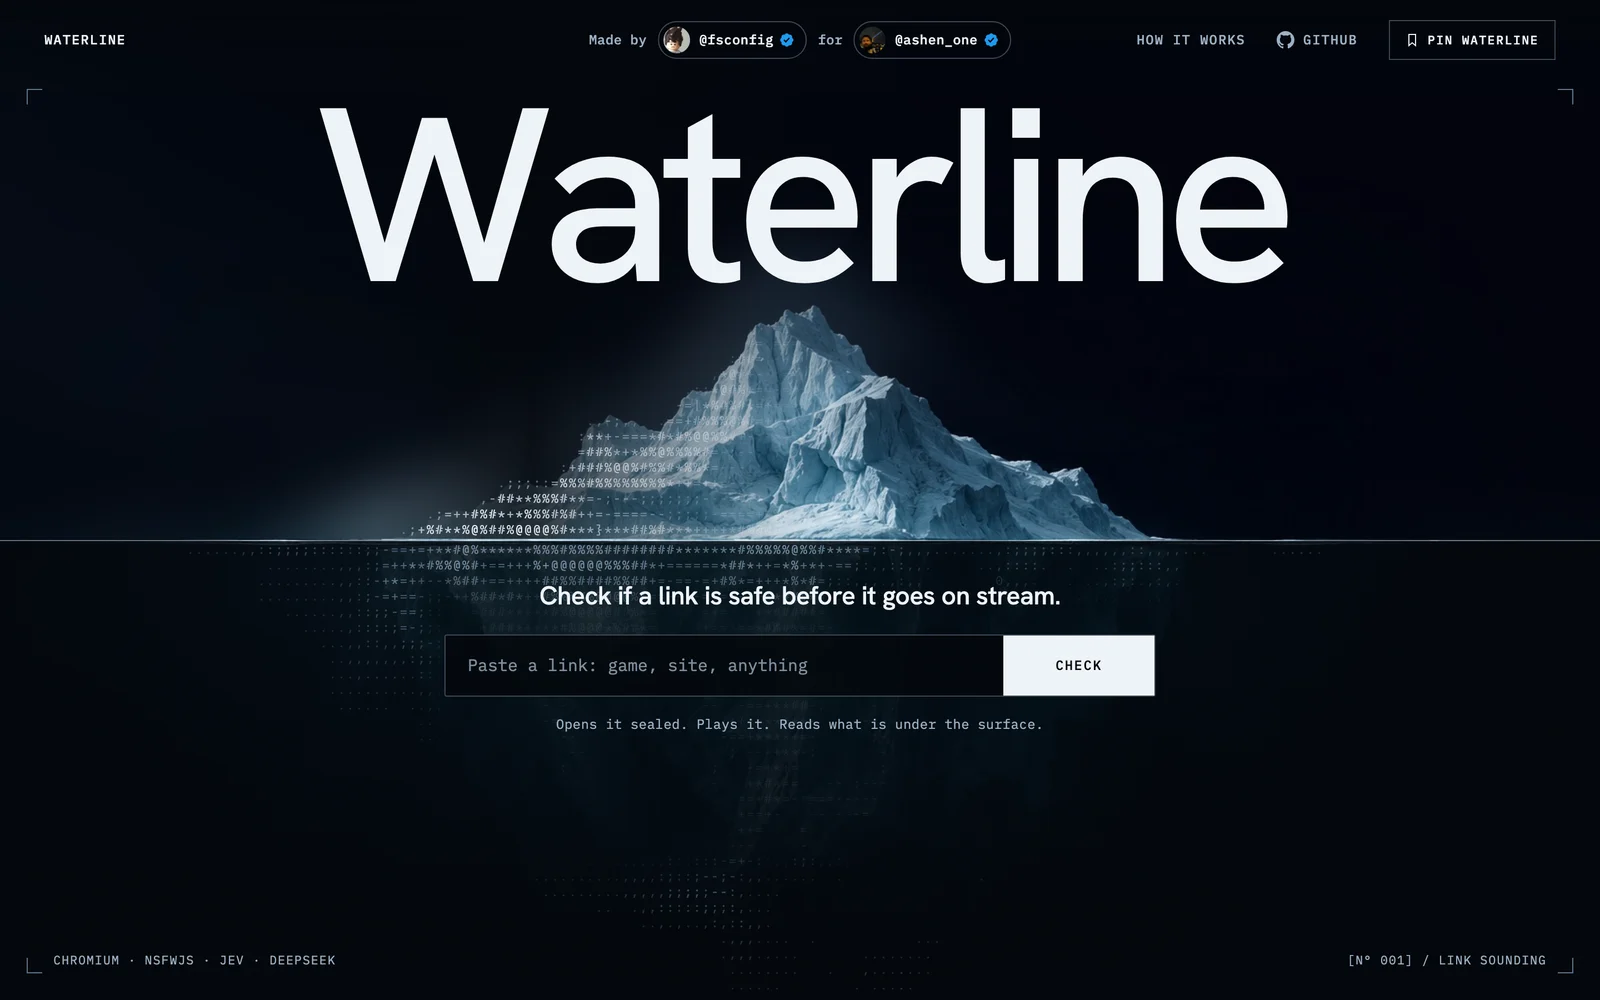
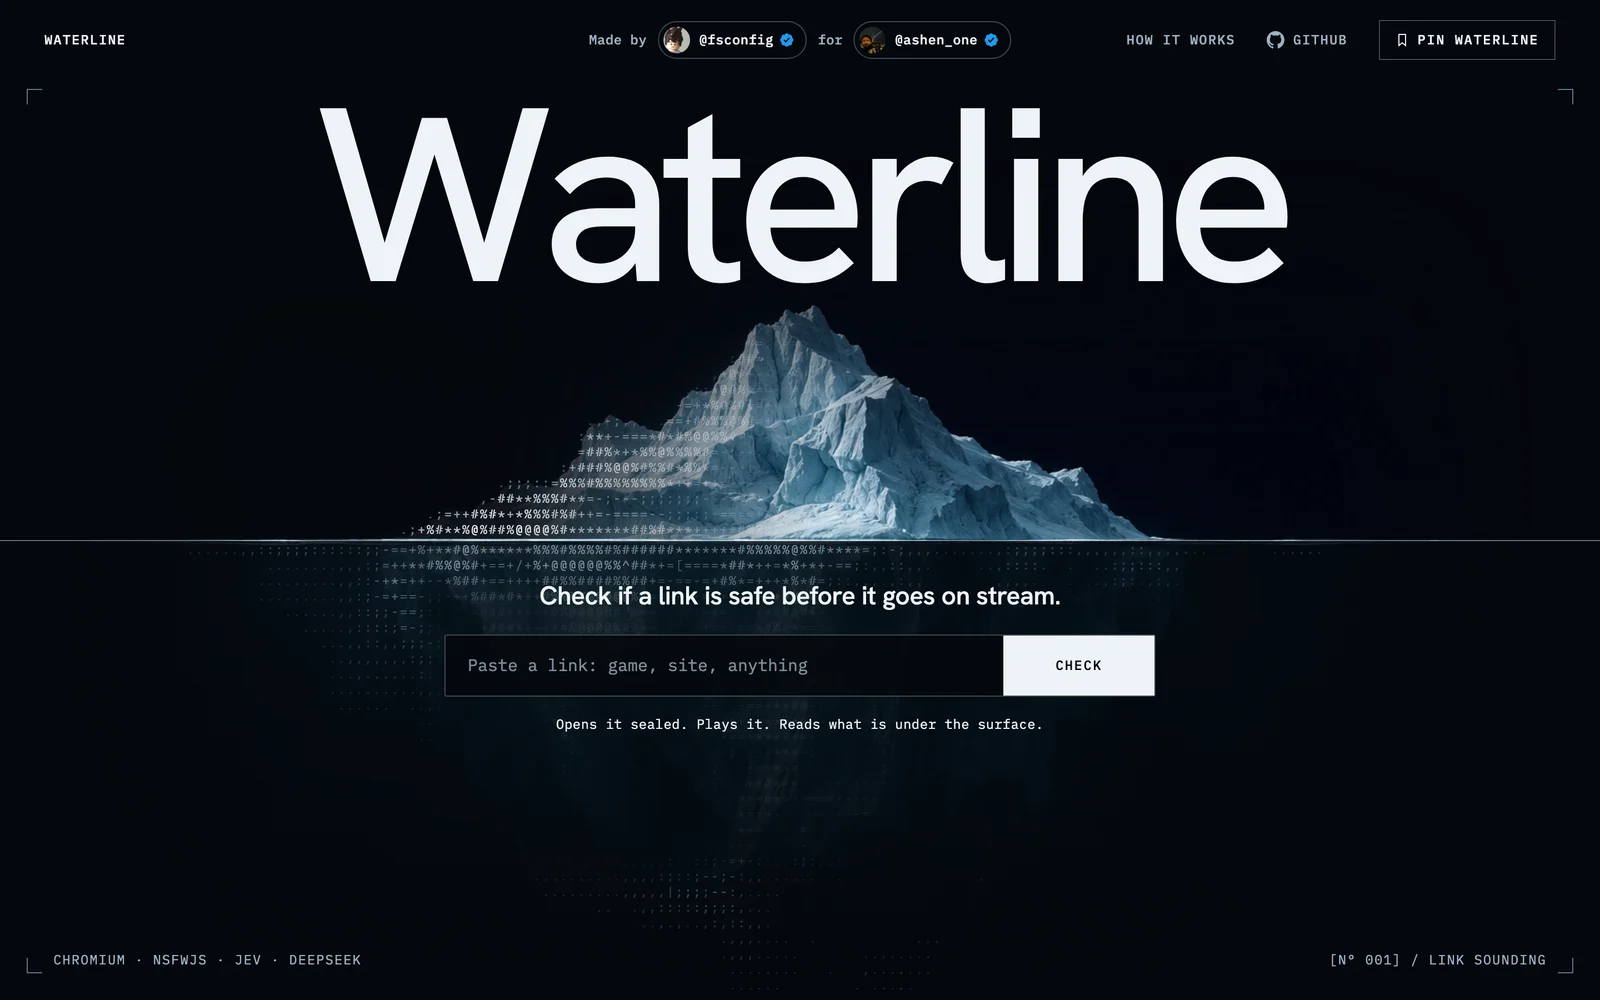
Fade the photo into the ground, credit chips with verified badges, tidy the top bar

diff --git a/public/style.css b/public/style.css
@@ -50,7 +50,7 @@ ol, ul { list-style: none; }
 @keyframes fade { from { opacity: 0; transform: translateY(-6px); } to { opacity: 1; transform: none; } }
 .pin-wrap { position: relative; }
 .pin { display: inline-flex; gap: 8px; align-items: center; height: 36px; padding: 0 14px; background: transparent; border: 1px solid var(--hair2); color: var(--ice);
-  font: 500 11px/1 var(--mono); letter-spacing: .1em; text-transform: uppercase; cursor: pointer; transition: border-color .2s, background .2s; }
+  font: 500 12px/1 var(--mono); letter-spacing: .1em; text-transform: uppercase; cursor: pointer; transition: border-color .2s, background .2s; }
 .pin:hover { border-color: var(--ice); background: rgba(238, 243, 247, .06); }
 .pin.done { border-color: var(--safe); color: var(--safe); }
 .pin-tip { position: absolute; right: 0; top: calc(100% + 10px); width: max-content; max-width: 280px; padding: 12px 14px; background: #0a111a; border: 1px solid var(--hair2);
@@ -72,7 +72,7 @@ ol, ul { list-style: none; }
 .crop { position: absolute; z-index: 5; width: 14px; height: 14px; border: 0 solid var(--steel); pointer-events: none; }
 .crop.tl { top: 80px; left: 24px; border-width: 1px 0 0 1px; } .crop.tr { top: 80px; right: 24px; border-width: 1px 1px 0 0; }
 .crop.bl { bottom: 24px; left: 24px; border-width: 0 0 1px 1px; } .crop.br { bottom: 24px; right: 24px; border-width: 0 1px 1px 0; }
-.foot { position: absolute; z-index: 5; bottom: 30px; font: 400 11px/1 var(--mono); letter-spacing: .08em; text-transform: uppercase; color: var(--frost); transition: opacity .4s; }
+.foot { position: absolute; z-index: 5; bottom: 30px; font: 400 12px/1 var(--mono); letter-spacing: .08em; text-transform: uppercase; color: var(--frost); transition: opacity .4s; }
 .foot.fl { left: 48px; } .foot.fr { right: 48px; }
 
 /* Wire: the real hosts the page contacts, running off the right edge */
@@ -110,13 +110,13 @@ input::placeholder { color: var(--frost); opacity: .8; }
 #go:hover { background: #fff; }
 #go:disabled { cursor: progress; background: rgba(191, 227, 255, .08); color: var(--sounding); border-left: 1px solid var(--hair2); }
 .log { margin-top: 16px; height: 54px; overflow: hidden; display: flex; flex-direction: column; justify-content: flex-end; font: 400 12px/18px var(--mono); letter-spacing: .02em; }
-.log li { display: flex; gap: 12px; color: var(--steel); white-space: nowrap; overflow: hidden; text-overflow: ellipsis; animation: logIn .35s var(--ease); transition: color .4s; }
-.log li:last-child { color: var(--ice); }
-.log li:nth-last-child(2) { color: var(--frost); }
-.log li i { font-style: normal; color: var(--steel); flex: none; }
-.log li.hint { justify-content: center; color: var(--frost); }
+.log > div { display: flex; gap: 12px; color: var(--steel); white-space: nowrap; overflow: hidden; text-overflow: ellipsis; animation: logIn .35s var(--ease); transition: color .4s; }
+.log > div:last-child { color: var(--ice); }
+.log > div:nth-last-child(2) { color: var(--frost); }
+.log > div i { font-style: normal; color: var(--steel); flex: none; }
+.log > .hint { justify-content: center; color: var(--frost); }
 .log:has(> .hint:only-child), .log:has(> .err:only-child) { justify-content: flex-start; }
-.log li.err { color: var(--caution); justify-content: center; }
+.log > .err { color: var(--caution); justify-content: center; }
 @keyframes logIn { from { opacity: 0; transform: translateY(8px); } to { opacity: 1; transform: none; } }
 .film { display: grid; grid-template-columns: repeat(6, 1fr); gap: 8px; margin-top: 16px; opacity: 0; transform: translateY(6px); transition: opacity .5s var(--ease), transform .5s var(--ease); }
 .hero[data-state="scanning"] .film { opacity: 1; transform: none; }
@@ -206,7 +206,10 @@ input::placeholder { color: var(--frost); opacity: .8; }
   .gh span { display: none; } .bar nav { gap: 14px; }
   .credit { top: 84px; gap: 6px; font-size: 11px; }
   .credit a { padding: 3px 8px 3px 3px; gap: 6px; } .credit img { width: 20px; height: 20px; } .credit .vf { width: 12px; height: 12px; }
-  .pin { height: 32px; padding: 0 10px; } .pin span { display: none; }
+  .pin { height: 44px; width: 44px; padding: 0; justify-content: center; } .pin span { display: none; }
+  .gh { min-width: 44px; min-height: 44px; justify-content: center; }
+  .credit a { position: relative; } .credit a::after { content: ""; position: absolute; inset: -9px -2px; }
+  .logo { min-height: 44px; }
   .crop, .foot.fr { display: none; }
   .foot.fl { left: 16px; right: 16px; bottom: 18px; text-align: center; font-size: 10px; }
   .wire { display: none; }
@@ -218,7 +221,7 @@ input::placeholder { color: var(--frost); opacity: .8; }
   input { flex: none; height: 52px; font-size: 16px; }
   #go { height: 48px; min-width: 0; }
   #go:disabled { border-left: 0; border-top: 1px solid var(--hair2); }
-  .log { font-size: 11px; } .log li.hint { text-align: center; white-space: normal; }
+  .log { font-size: 11px; } .log > .hint { text-align: center; white-space: normal; }
   .film { gap: 5px; }
   .report { grid-template-columns: 1fr; width: calc(100vw - 24px); top: calc(var(--wl) + 16px); max-height: calc(100svh - var(--wl) - 28px); overflow: auto; }
   .report > div { padding: 18px; }
@@ -243,3 +246,5 @@ input::placeholder { color: var(--frost); opacity: .8; }
   *, *::before, *::after { animation-duration: .01ms !important; animation-delay: 0ms !important; transition-duration: .01ms !important; transition-delay: 0ms !important; scroll-behavior: auto !important; }
   .mark .ch, .reveal, .report .rv { transform: none; opacity: 1; filter: none; }
 }
+.logo { transition: color .2s; } .logo:hover { color: var(--sounding); }
+form:hover { border-color: rgba(157, 177, 196, .7); }

diff --git a/public/app.js b/public/app.js
@@ -61,15 +61,7 @@ function drawPhoto() {
   const { s, x, y, wlY } = geo, iw = IMG_W * s, ih = IMG_H * s;
   pctx.setTransform(dpr, 0, 0, dpr, 0, 0);
   pctx.fillStyle = '#04070c'; pctx.fillRect(0, 0, W, H);
-  // Ambient light: a blurred copy fills the whole frame, so the light never stops at an edge.
-  const cs = Math.max(W / IMG_W, H / IMG_H) * 1.2;
-  pctx.save(); pctx.filter = 'blur(56px)'; pctx.globalAlpha = 0.5;
-  pctx.drawImage(img, (W - IMG_W * cs) / 2, wlY - WL * cs, IMG_W * cs, IMG_H * cs); pctx.restore();
-  // Where the flank dissolves, the water and sky stay dark rather than showing the glow.
-  { const d0 = dissolve(); const g0 = pctx.createLinearGradient(d0.x0 - 120, 0, d0.x1, 0);
-    g0.addColorStop(0, 'rgba(4,7,12,0)'); g0.addColorStop(0.35, 'rgba(4,7,12,.88)'); g0.addColorStop(1, 'rgba(4,7,12,0)');
-    pctx.fillStyle = g0; pctx.fillRect(d0.x0 - 120, 0, d0.x1 - d0.x0 + 120, wlY); }
-  // The photo itself, edges faded into the ambient, left flank dissolved for the ASCII.
+  // The photo, its edges faded into the dark ground, its left flank dissolved for the ASCII.
   const off = document.createElement('canvas'); off.width = photo.width; off.height = photo.height;
   const o = off.getContext('2d'); o.setTransform(dpr, 0, 0, dpr, 0, 0);
   o.drawImage(img, x, y, iw, ih);
@@ -337,7 +329,7 @@ function pushWire(ev) {
 // ── Live log under the field ───────────────────────────────
 const log = $('#log');
 function logLine(text, stamp, cls = '') {
-  const li = document.createElement('li'); if (cls) li.className = cls;
+  const li = document.createElement('div'); if (cls) li.className = cls;
   if (stamp) { const i = document.createElement('i'); i.textContent = stamp; li.appendChild(i); }
   const span = document.createElement('span'); li.appendChild(span);
   log.appendChild(li);
@@ -345,7 +337,7 @@ function logLine(text, stamp, cls = '') {
   if (reduce) { span.textContent = text; return; }
   let n = 0; const tw = setInterval(() => { n += 2; span.textContent = text.slice(0, n); if (n >= text.length) clearInterval(tw); }, 14);
 }
-function logReset(text, cls = 'hint') { log.textContent = ''; const li = document.createElement('li'); li.className = cls; li.textContent = text; log.appendChild(li); }
+function logReset(text, cls = 'hint') { log.textContent = ''; const li = document.createElement('div'); li.className = cls; li.textContent = text; log.appendChild(li); }
 
 // ── Filmstrip ──────────────────────────────────────────────
 const film = $('#film');

diff --git a/public/index.html b/public/index.html
@@ -65,7 +65,7 @@
         <input id="url" name="url" type="url" inputmode="url" spellcheck="false" placeholder="Paste a link: game, site, anything" maxlength="2048" required>
         <button id="go" type="submit"><span id="goLabel">Check</span></button>
       </form>
-      <ol class="log" id="log" role="status" aria-live="polite"><li class="hint">Opens it sealed. Plays it. Reads what is under the surface.</li></ol>
+      <div class="log" id="log" role="status" aria-live="polite"><div class="hint">Opens it sealed. Plays it. Reads what is under the surface.</div></div>
       <div class="film" id="film" aria-hidden="true"></div>
     </div>
 
@@ -114,7 +114,7 @@
     <footer class="foot2">
       <span>Waterline</span>
       <span>Made by <a href="https://x.com/fsconfig" target="_blank" rel="noopener noreferrer">@fsconfig</a> for <a href="https://x.com/ashen_one" target="_blank" rel="noopener noreferrer">@ashen_one</a></span>
-      <span>A second opinion, not a guarantee.</span>
+      <span>Built for streams that open links live.</span>
     </footer>
   </section>
 </main>

diff --git a/README.md b/README.md
@@ -106,7 +106,7 @@ On Vercel the API refuses to scan until the Upstash store is connected, so limit
 
 Found a problem? Open an issue, or for anything sensitive, message [@fsconfig](https://x.com/fsconfig) on X.
 
-Waterline is a second opinion, not a guarantee. When in doubt, don't open it live.
+
 
 ## License
 
